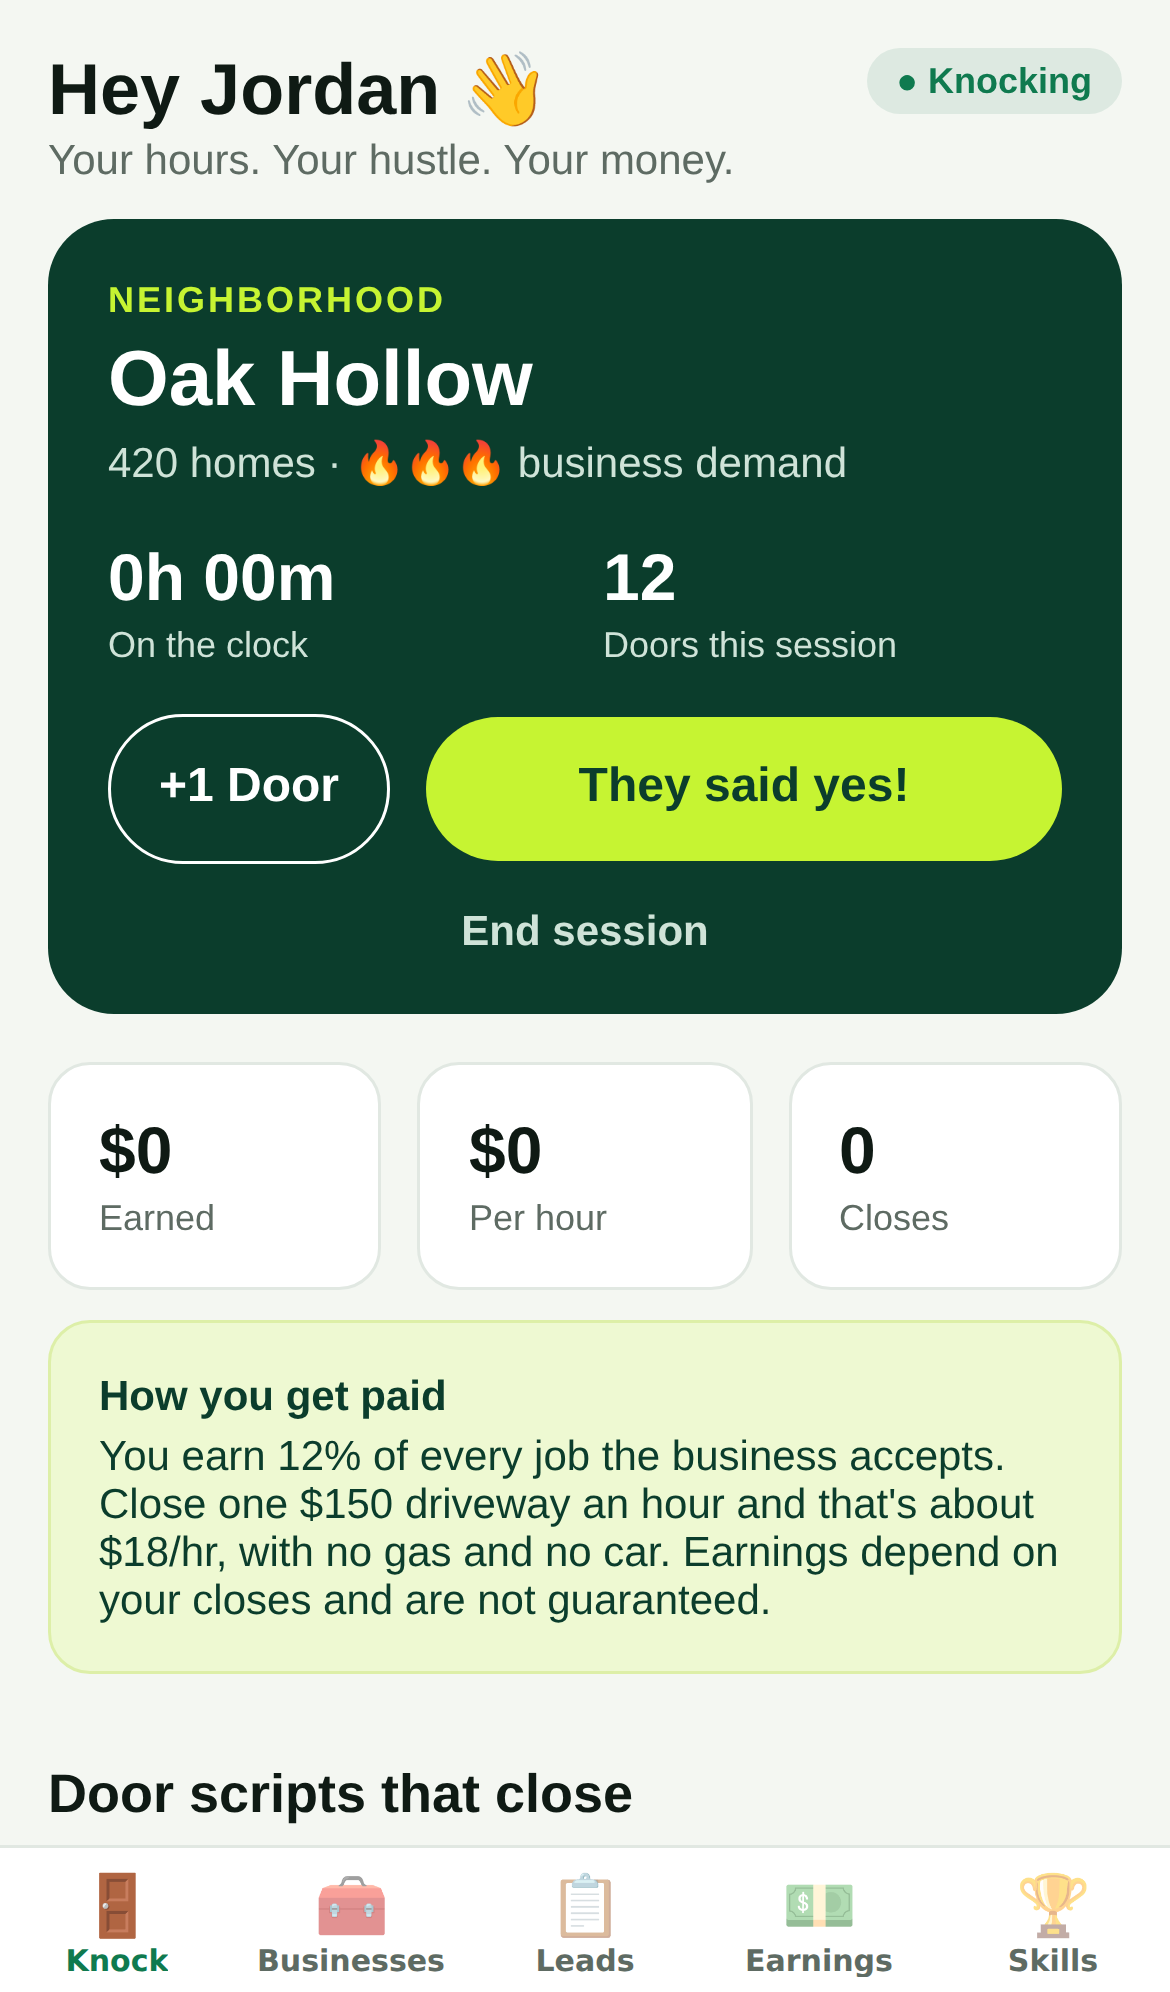
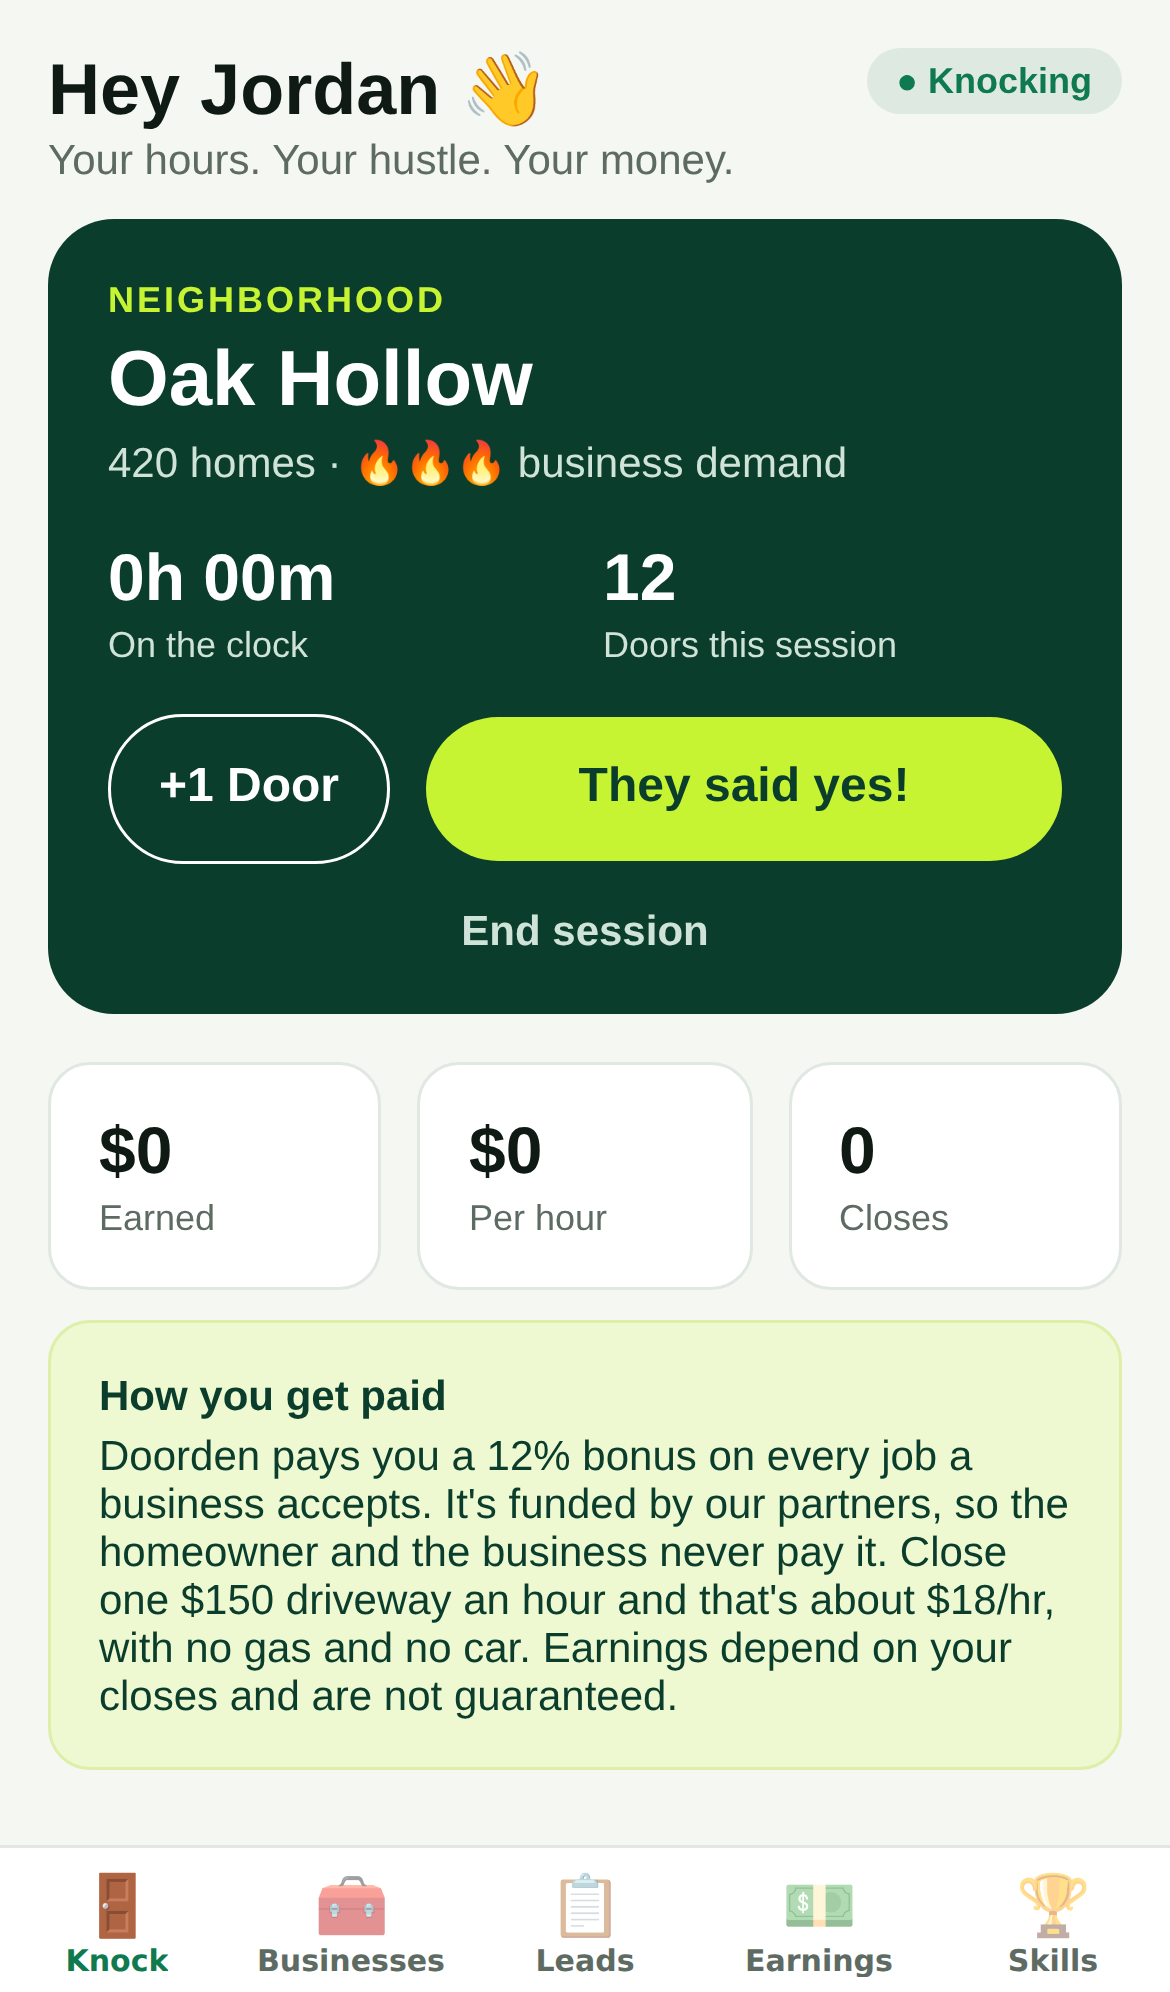
feat: fund rep 12% bonus through Doorden partners, not businesses
Businesses now get jobs free and keep 100% of the job price. The rep's 12%
is presented as a Doorden bonus powered by brand partners, with a partner
slot on earnings and the homeowner verify screen. Adds a business model
section to the README and a partner pitch doc.

Claude-Session: https://claude.ai/code/session_01LNhcic5vgmDiWL9hMbMuqG

Changed region(s): [[0.0308, 0.7159, 0.9846, 0.9337]]

diff --git a/doorden-app/src/app/(rep)/earnings.tsx b/doorden-app/src/app/(rep)/earnings.tsx
@@ -2,7 +2,7 @@ import { Alert, StyleSheet, Text, View } from 'react-native';
 
 import { Button, Card, Muted, Row, Screen, Section, Stat, Title } from '../../components/ui';
 import { money, repStats, useStore } from '../../lib/store';
-import { colors, radius } from '../../lib/theme';
+import { BONUS_PARTNER, colors, radius } from '../../lib/theme';
 
 export default function Earnings() {
   const { state, dispatch } = useStore();
@@ -19,11 +19,12 @@ export default function Earnings() {
 
   return (
     <Screen>
-      <Title sub="12% commission on every job a business accepts.">Earnings</Title>
+      <Title sub="Doorden pays a 12% bonus on every job a business accepts.">Earnings</Title>
 
       <View style={s.balance}>
         <Text style={s.balanceLabel}>AVAILABLE BALANCE</Text>
         <Text style={s.balanceValue}>{money(st.balance)}</Text>
+        <Text style={s.partner}>{BONUS_PARTNER.tagline} · {BONUS_PARTNER.name}</Text>
         <Button label="Cash out" kind="accent" disabled={st.balance <= 0} onPress={cashOut} style={{ marginTop: 14 }} />
       </View>
 
@@ -49,7 +50,7 @@ export default function Earnings() {
                 <Text style={{ fontWeight: '700' }}>{l.homeowner.name}</Text>
                 <Text style={{ fontWeight: '800', color: colors.primary }}>+{money(l.commission)}</Text>
               </Row>
-              <Muted>12% of {money(l.total)}</Muted>
+              <Muted>12% bonus on a {money(l.total)} job</Muted>
             </Card>
           ))
         )}
@@ -75,4 +76,5 @@ const s = StyleSheet.create({
   balance: { backgroundColor: colors.primaryDark, borderRadius: radius.lg, padding: 20 },
   balanceLabel: { color: colors.accent, fontWeight: '800', fontSize: 12, letterSpacing: 1 },
   balanceValue: { color: '#fff', fontSize: 40, fontWeight: '900', marginTop: 4 },
+  partner: { color: '#CFE3D8', fontSize: 12, marginTop: 4 },
 });

diff --git a/doorden-app/src/app/(business)/index.tsx b/doorden-app/src/app/(business)/index.tsx
@@ -18,7 +18,7 @@ export default function BusinessJobs() {
   const accept = (l: Lead) =>
     Alert.alert(
       'Accept this job?',
-      `${money(l.total)} job. The rep's 12% commission (${money(l.commission)}) is paid out when you accept.`,
+      `${money(l.total)} job, free to you. You keep the full ${money(l.total)}. Doorden pays the rep's ${money(l.commission)} bonus.`,
       [
         { text: 'Cancel', style: 'cancel' },
         { text: 'Accept job', onPress: () => dispatch({ type: 'setLeadStatus', leadId: l.id, status: 'accepted' }) },
@@ -59,7 +59,7 @@ export default function BusinessJobs() {
         <Card style={{ flex: 1 }}><Stat label="Ready to accept" value={String(ready.length)} /></Card>
         <Card style={{ flex: 1 }}><Stat label="Booked revenue" value={money(booked)} /></Card>
       </Row>
-      <Muted style={{ fontSize: 12 }}>Listing on Doorden is free. You only pay the rep's 12% on jobs you accept.</Muted>
+      <Muted style={{ fontSize: 12 }}>Doorden jobs are 100% free. Reps earn a 12% bonus paid by Doorden and our partners, so you keep every dollar.</Muted>
 
       <Section title="Homeowner verified">
         {ready.length === 0 ? (
@@ -67,7 +67,7 @@ export default function BusinessJobs() {
         ) : (
           ready.map((l) => (
             <JobCard key={l.id} l={l}>
-              <Muted style={{ marginTop: 8 }}>Rep commission: {money(l.commission)} (12%)</Muted>
+              <Muted style={{ marginTop: 8 }}>Rep bonus: {money(l.commission)}, paid by Doorden, not you</Muted>
               <Row style={{ marginTop: 10 }}>
                 <Button label="Pass" kind="ghost" style={{ flex: 1 }} onPress={() => dispatch({ type: 'setLeadStatus', leadId: l.id, status: 'declined' })} />
                 <Button label="Accept job" style={{ flex: 2 }} onPress={() => accept(l)} />

diff --git a/doorden-app/src/app/verify.tsx b/doorden-app/src/app/verify.tsx
@@ -4,7 +4,7 @@ import { Text, TextInput } from 'react-native';
 
 import { Button, Card, Muted, Row, Screen, StatusPill, Title, styles as ui } from '../components/ui';
 import { money, unitLabel, useStore } from '../lib/store';
-import { colors } from '../lib/theme';
+import { BONUS_PARTNER, colors } from '../lib/theme';
 
 export default function Verify() {
   const params = useLocalSearchParams<{ code?: string }>();
@@ -58,6 +58,9 @@ export default function Verify() {
               />
               <Muted style={{ fontSize: 12, marginTop: 10, textAlign: 'center' }}>
                 Nothing is charged now. You pay the business directly after the job is done.
+              </Muted>
+              <Muted style={{ fontSize: 12, marginTop: 6, textAlign: 'center' }}>
+                {BONUS_PARTNER.tagline} · {BONUS_PARTNER.name}
               </Muted>
             </>
           ) : (

diff --git a/doorden-app/src/app/index.tsx b/doorden-app/src/app/index.tsx
@@ -9,8 +9,8 @@ import { colors, radius } from '../lib/theme';
 import type { Role } from '../lib/types';
 
 const roles: { role: Role; emoji: string; title: string; body: string }[] = [
-  { role: 'rep', emoji: '🚪', title: 'I want to earn', body: 'Knock doors on your schedule. 12% of every job you close.' },
-  { role: 'business', emoji: '🧰', title: 'I run a local business', body: 'Get free, homeowner-verified jobs. You only do the work.' },
+  { role: 'rep', emoji: '🚪', title: 'I want to earn', body: 'Knock doors on your schedule. Earn a 12% bonus on every job you close.' },
+  { role: 'business', emoji: '🧰', title: 'I run a local business', body: 'Get free, homeowner-verified jobs. Keep 100% of every job.' },
   { role: 'homeowner', emoji: '🏡', title: 'I got a quote', body: 'Verify the offer a rep gave you at your door.' },
 ];
 

diff --git a/doorden-app/src/app/(rep)/index.tsx b/doorden-app/src/app/(rep)/index.tsx
@@ -93,8 +93,9 @@ export default function Knock() {
       <Card style={{ backgroundColor: '#EEF9D2', borderColor: '#DDEFA8' }}>
         <Text style={{ fontWeight: '800', color: colors.primaryDark }}>How you get paid</Text>
         <Muted style={{ marginTop: 4, color: colors.primaryDark }}>
-          You earn 12% of every job the business accepts. Close one $150 driveway an hour and that's about $18/hr,
-          with no gas and no car. Earnings depend on your closes and are not guaranteed.
+          Doorden pays you a 12% bonus on every job a business accepts. It's funded by our partners, so the homeowner and
+          the business never pay it. Close one $150 driveway an hour and that's about $18/hr, with no gas and no car.
+          Earnings depend on your closes and are not guaranteed.
         </Muted>
       </Card>
 

diff --git a/doorden-app/src/app/(rep)/businesses.tsx b/doorden-app/src/app/(rep)/businesses.tsx
@@ -33,7 +33,7 @@ export default function Businesses() {
             </Muted>
             <Row style={{ marginTop: 8 }}>
               {servesHere ? <Pill label="Serves your neighborhood" /> : <Pill label="Other areas" color={colors.muted} />}
-              <Pill label="12% to you" color={colors.primaryDark} bg={colors.accent} />
+              <Pill label="12% bonus to you" color={colors.primaryDark} bg={colors.accent} />
             </Row>
           </Card>
         );

diff --git a/doorden-app/src/app/(business)/account.tsx b/doorden-app/src/app/(business)/account.tsx
@@ -29,7 +29,7 @@ export default function Account() {
         <Card>
           <Muted>
             1. Set your price guideline.{'\n'}2. Reps knock doors and quote inside it.{'\n'}3. Homeowners confirm the offer in the app.
-            {'\n'}4. You accept the job and do the work. No ads, no monthly fee.
+            {'\n'}4. You accept the job and do the work. No ads, no monthly fee, no commission.
           </Muted>
         </Card>
       </Section>

diff --git a/doorden-app/src/lib/theme.ts b/doorden-app/src/lib/theme.ts
@@ -15,4 +15,8 @@ export const colors = {
 
 export const radius = { sm: 8, md: 14, lg: 22, pill: 999 };
 
+/** Rep bonus rate. Paid by Doorden from partner revenue, never by the business or homeowner. */
 export const COMMISSION_RATE = 0.12;
+
+/** Brand partner shown on the bonus. Swap in each signed partner. */
+export const BONUS_PARTNER = { name: 'Your Brand Here', tagline: 'Rep bonuses powered by our partners' };

diff --git a/doorden-app/docs/PARTNER_PITCH.md b/doorden-app/docs/PARTNER_PITCH.md
@@ -1,0 +1,56 @@
+# Doorden Partner Pitch
+
+## The one-liner
+
+**Doorden is the app that pays people to knock on doors, on their own schedule. Partner with us and your brand is behind every bonus paid and every offer a homeowner confirms.**
+
+## The problem we solve
+
+- **Local businesses** (power washing, windows, gutters, lawn care) need steady jobs but can't afford a sales team or pricey ads.
+- **People who want flexible income** are stuck with gig apps that burn their car, their gas, and their time.
+- **Homeowners** want trusted local pros at a fair, pre-set price.
+
+## How Doorden works
+
+1. A rep picks a neighborhood and knocks doors. No car, no gas, no cost.
+2. A homeowner says yes. The rep logs the job in the app at the business's own price.
+3. The homeowner **confirms the offer in the app**.
+4. The local business accepts the free job and does the work.
+5. **Doorden pays the rep a 12% bonus, powered by you.**
+
+## Why partner with us
+
+| You get | Why it matters |
+|---------|----------------|
+| **Your brand on every bonus** | "Rep bonuses powered by [You]" shows on every payout and every offer a homeowner confirms |
+| **Verified homeowners, not clicks** | Every lead is a real homeowner who confirmed a real job in the app |
+| **Hyper-local reach** | Pick the neighborhoods and cities you want to show up in |
+| **A good story** | You're funding local jobs and flexible income, not just buying ads |
+| **Early-partner pricing** | First partners lock in rates and category exclusivity |
+
+## Who we're talking to
+
+Brands that want to reach homeowners: home insurance, home security, solar, mortgage and refinancing, local banks and credit unions, real estate brokerages, home improvement retailers, and internet/utility providers.
+
+## Partnership options (draft, set your own numbers)
+
+| Option | How it works |
+|--------|--------------|
+| **Per verified job** | You pay a set fee for every job a homeowner confirms. Simple, pay-for-results. |
+| **Neighborhood sponsor** | Monthly flat fee to be the bonus partner in chosen neighborhoods or a whole city. |
+| **Category exclusive** | Be the only insurance (or solar, or bank) partner on Doorden. Premium rate. |
+
+Set every option so it covers the 12% rep bonus **plus** Doorden's margin.
+
+## What to bring to the meeting
+
+- [ ] A live demo of the app (run it on your phone with Expo Go, see the README)
+- [ ] Your launch city and first neighborhoods
+- [ ] Early numbers once you have them: reps signed up, doors knocked, offers confirmed, jobs accepted
+- [ ] Signed local businesses (even 3 to 5 is a strong start)
+- [ ] A one-page agreement draft reviewed by your lawyer
+
+## Notes before you pitch
+
+- **Don't promise numbers you don't have yet.** Lead with the model and your pilot plan, then add real stats as they come in.
+- **Homeowner data needs consent.** If partners will contact homeowners directly, add a separate opt-in checkbox for that on the verify screen and cover it in your Privacy Policy.

diff --git a/doorden-app/README.md b/doorden-app/README.md
@@ -2,7 +2,7 @@
 
 **Get paid to knock. Skills, not miles.**
 
-Doorden works like DoorDash, but for door-to-door sales. Reps pick a neighborhood, knock on doors, and log every "yes." The homeowner confirms the offer in the app, and a local business picks up the job. The rep earns **12% of every job the business accepts**. There's no car, no gas, and no boss.
+Doorden works like DoorDash, but for door-to-door sales. Reps pick a neighborhood, knock on doors, and log every "yes." The homeowner confirms the offer in the app, and a local business picks up the job. The rep earns a **12% bonus on every job the business accepts**, paid by Doorden. There's no car, no gas, and no boss.
 
 ## How it works
 
@@ -10,10 +10,25 @@ Doorden works like DoorDash, but for door-to-door sales. Reps pick a neighborhoo
 2. **The rep** picks a neighborhood, taps **Start knocking**, and pitches: "Want your driveway power washed for $150?"
 3. When someone says yes, the rep taps **They said yes!**, picks the business and service, quotes inside the guideline, and enters the homeowner's info.
 4. **The homeowner** gets a text with a 6-character code and a link, then confirms the offer in the app.
-5. **The business** sees the verified job and taps **Accept job**. The rep's 12% moves to their balance.
+5. **The business** sees the verified job and taps **Accept job**. The rep's 12% bonus moves to their balance.
 6. The business calls the homeowner, does the work, and marks the job complete.
 
 Example: one $150 driveway closed per hour earns about $18/hr. Earnings depend on closes and are not guaranteed.
+
+## Business model: who pays the 12%
+
+**Not the business, and not the homeowner.** Local businesses get jobs 100% free and keep every dollar. Doorden pays each rep's 12% bonus from **partner revenue**: companies that pay to be the brand behind the bonus and to reach verified homeowners.
+
+| Who | Pays | Gets |
+|-----|------|------|
+| Homeowner | The business's normal price, after the job | A fair, pre-set price from a trusted local pro |
+| Local business | $0 | Free, homeowner-verified jobs |
+| Rep | $0 | 12% bonus per accepted job, their own hours |
+| **Partner** | Sponsorship (funds the bonuses + Doorden's margin) | Brand on every offer and payout, and opt-in homeowner reach |
+
+The partner shown in the app lives in `BONUS_PARTNER` in `src/lib/theme.ts`. See [`docs/PARTNER_PITCH.md`](docs/PARTNER_PITCH.md) for the pitch.
+
+**Math to watch:** every accepted job costs Doorden 12% of the job price (a $160 driveway = $19.20). Sign partner deals that cover that before scaling reps. A per-verified-job sponsorship fee that is higher than the average bonus keeps each job profitable.
 
 ## What's in the app
 
